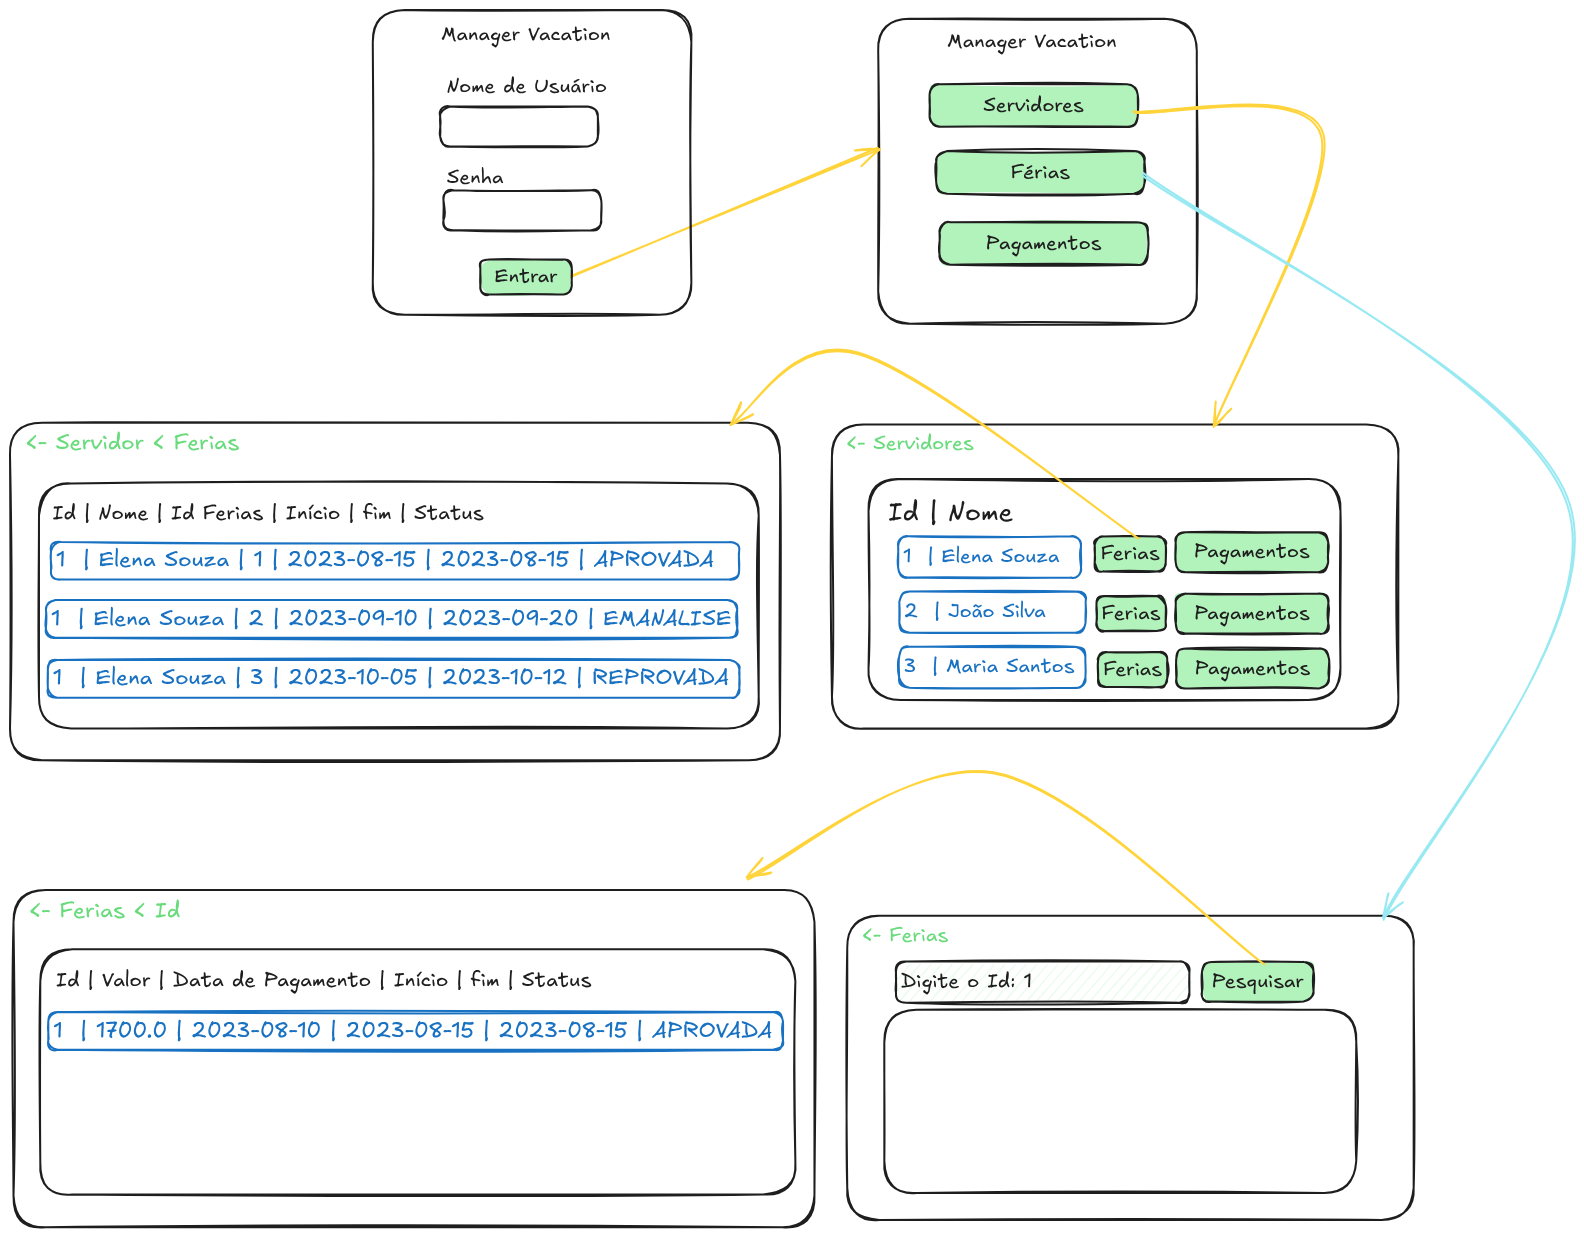
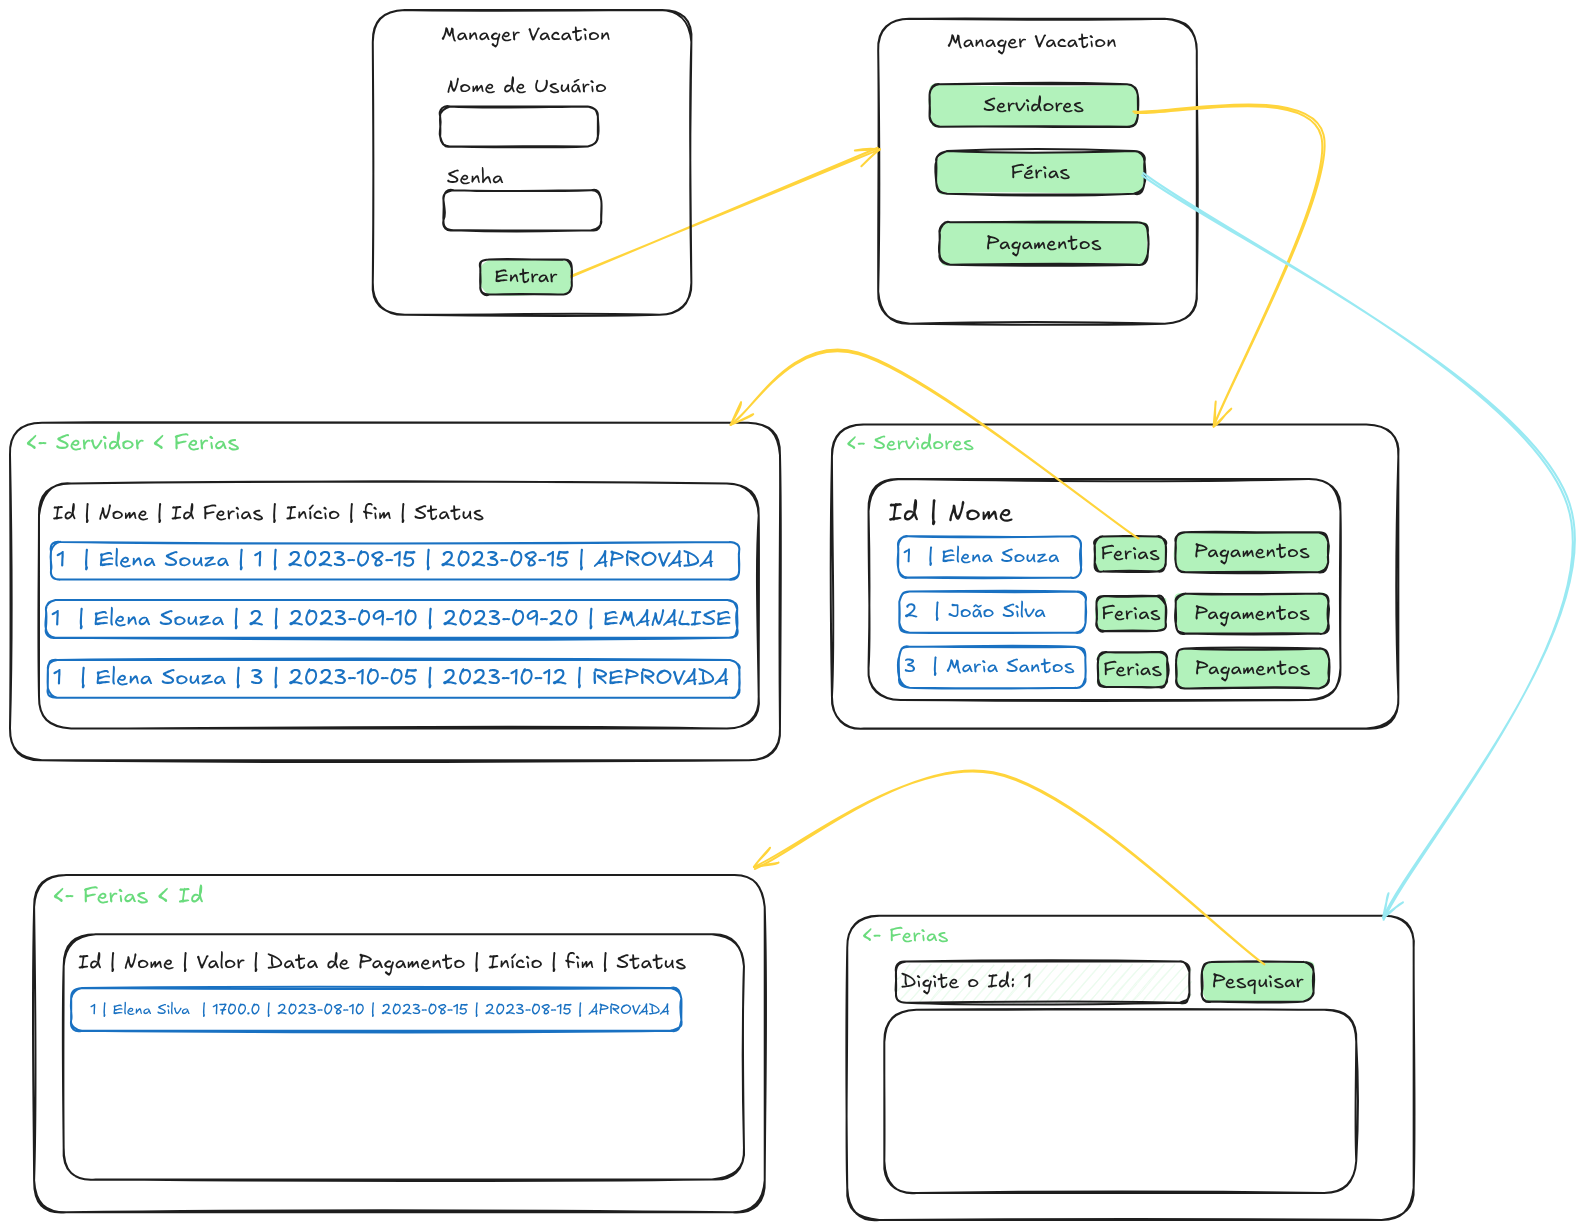
refactor: return the server name when getting ferias by id

diff --git a/src/main/java/com/example/vacationManager/repositories/FeriasRespository.java b/src/main/java/com/example/vacationManager/repositories/FeriasRespository.java
@@ -8,7 +8,7 @@ import org.springframework.data.repository.query.Param;
 
 public interface FeriasRespository extends JpaRepository<Ferias, Long> {
     @Query(nativeQuery = true, value = """
-        select f.id, f.inicio, f.fim, f.status, p.data as "dataDePagamento", p.valor 
+        select f.id, f.inicio, f.fim, f.status, p.data as "dataDePagamento", p.valor, s.nome 
         from FERIAS f
         inner join SERVIDOR s on s.id = f.servidor_id
         inner join PAGAMENTO p on p.servidor_id = s.id

diff --git a/src/main/java/com/example/vacationManager/dto/FeriasAprovadaDTO.java b/src/main/java/com/example/vacationManager/dto/FeriasAprovadaDTO.java
@@ -12,6 +12,7 @@ public class FeriasAprovadaDTO {
     private String status;
     private LocalDate dataDePagamento;
     private Double valor;
+    private String nome;
 
     public FeriasAprovadaDTO() {
     }
@@ -66,5 +67,13 @@ public class FeriasAprovadaDTO {
 
     public void setValor(Double valor) {
         this.valor = valor;
+    }
+
+    public String getNome() {
+        return nome;
+    }
+
+    public void setNome(String nome) {
+        this.nome = nome;
     }
 }

diff --git a/src/main/java/com/example/vacationManager/projections/FeriasAprovadaProjection.java b/src/main/java/com/example/vacationManager/projections/FeriasAprovadaProjection.java
@@ -9,4 +9,5 @@ public interface FeriasAprovadaProjection {
     String getStatus();
     LocalDate getDataDePagamento();
     Double getValor();
+    String getNome();
 }
